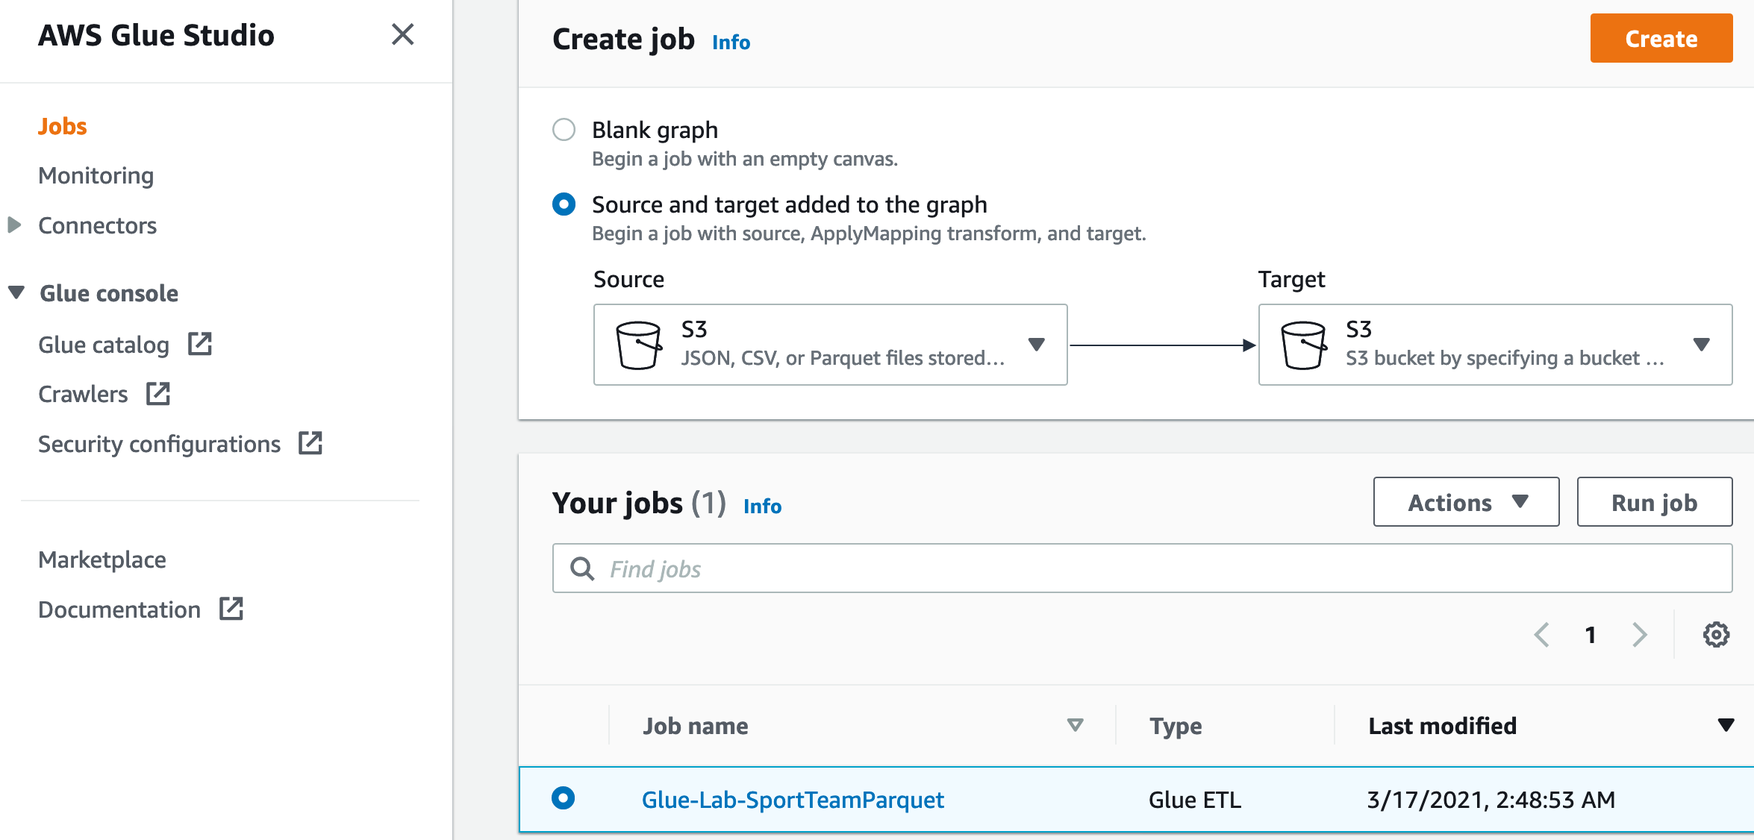
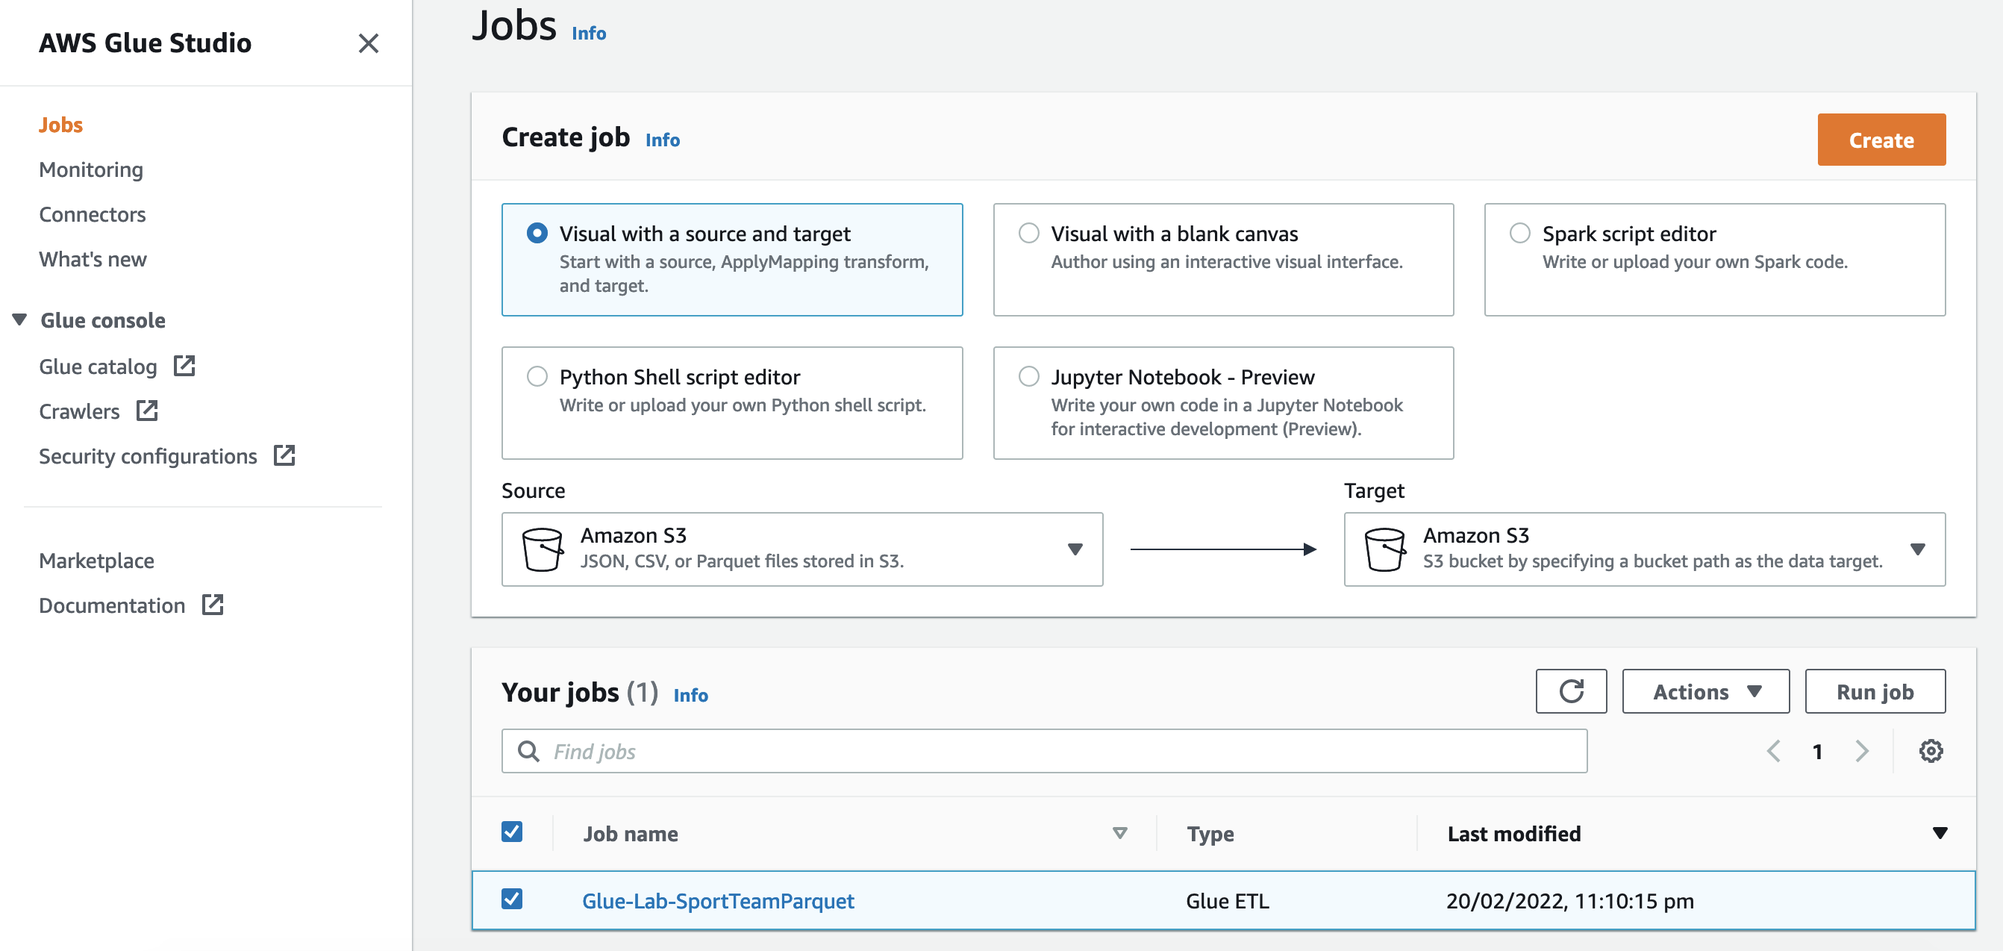
Glue lab updates

diff --git a/content/300/330-streaming-lab.md b/content/300/330-streaming-lab.md
@@ -6,7 +6,7 @@ weight: 330
 ## Streaming ETL Lab
 ![](/static/300/images-streamingETL/1.png)
 
-### Set up Environment:
+### Set up environment
 ::alert[You need to set this environment only if you are running this workshop on your own account. If you are on an AWS event this has already been done for you.]{type="warning"}
 
 Use the [DMS Lab Student PreLab CloudFormation](/400/420-pre-lab-2.html) to setup your core workshop infrastructure environment. Skip the same PreLab in the DMS section.
@@ -17,64 +17,89 @@ Click the **Deploy to AWS** icon below:
 :button[Deploy to AWS]{iconName="external" variant="primary" href="https://console.aws.amazon.com/cloudformation/home#/stacks/create/review?stackName=dmslab-student&templateURL=https://s3.amazonaws.com/aws-dataengineering-day.workshop.aws/DMSlab_student_CFN.yaml" target="_blank"}
 
 ### Set up the kinesis stream 
-1.	Navigate to [AWS Kinesis console](https://console.aws.amazon.com/kinesis/home) 
+1. Navigate to [AWS Kinesis console](https://console.aws.amazon.com/kinesis/home) 
 
-2.	Click “Create data stream” 
+2. Click “Create data stream” 
 ![](/static/300/images-streamingETL/2.png)
  
-3.	Put `TicketTransactionStreamingData` as data stream name and put number of open shards as `2`, then click “Create data stream”.
-![](/static/300/images-streamingETL/3.png)
+3. Enter the following details
 
-Lab Instructions
+- **Data stream name:** `TicketTransactionStreamingData`
+- **Capacity mode:** `Provisioned`
+- **Provisioned shards:** `2`
 
-Create Table for Kinesis Stream Source in Glue Data Catalog
-1.	Navigate to [AWS Glue console](https://console.aws.amazon.com/glue/home)  
-2.	On the AWS Glue menu, select Tables
+  ![](/static/300/images-streamingETL/3.png)
+
+4. Click **Create data stream**
+
+
+### Lab Instructions
+
+#### Create Table for Kinesis Stream Source in Glue Data Catalog
+1. Navigate to [AWS Glue console](https://console.aws.amazon.com/glue/home)  
+2. On the AWS Glue menu, select Tables, then select **Add table manually** from the drop down list.
  ![](/static/300/images-streamingETL/4.png)
-3.	Enter `TicketTransactionStreamData` as the table name
-4.	Click Add database and enter `tickettransactiondatabase` as the database name, and click create. 
- ![](/static/300/images-streamingETL/5.png)
-5.	Using drop down to select the database we just created, and click Next
- ![](/static/300/images-streamingETL/6.png)
-6.	Select **Kinesis** as the source, select Stream in my account for Select a kinesis data stream, select the appropriate AWS region where you have created the stream, select the stream name as `TicketTransactionStreamingData` from the dropdown, and click Next.
- ![](/static/300/images-streamingETL/7.png)
-7.	Choose JSON as the incoming data format, as we will trigger JSON payload from Kinesis Data Generator in following steps. Click Next.
- ![](/static/300/images-streamingETL/8.png)
-8.	Leave the schema as empty, as we will enable schema detection feature when defining glue stream job. Click Next.
- ![](/static/300/images-streamingETL/9.png)
+3. Enter `TicketTransactionStreamData` as the table name
 
-9.	Review all the details and click Finish.
+4. Click Add database and enter `tickettransactiondatabase` as the database name, and click create. 
+ ![](/static/300/images-streamingETL/5.png)
+5. Using drop down to select the database we just created, and click Next
+ ![](/static/300/images-streamingETL/6.png)
+6. Select **Kinesis** as the source, select Stream in my account for Select a kinesis data stream, select the appropriate AWS region where you have created the stream, select the stream name as `TicketTransactionStreamingData` from the dropdown, and click Next.
+ ![](/static/300/images-streamingETL/7.png)
+7. Choose JSON as the incoming data format, as we will trigger JSON payload from Kinesis Data Generator in following steps. Click Next.
+ ![](/static/300/images-streamingETL/8.png)
+8. Leave the schema as empty, as we will enable schema detection feature when defining glue stream job. Click Next.
+ ![](/static/300/images-streamingETL/9.png)
+9. Leave partition indices empty. Click Next.
+ ![](/static/300/images-streamingETL/45.png)
+10. Review all the details and click Finish.
  ![](/static/300/images-streamingETL/10.png)
 
+### Create and trigger Glue Streaming job
 
-### Create and trigger Glue Stream job 
+1. On the left-hand side of Glue Console, click on **Jobs**, this will launch Glue Studio.
+   ![](/static/300/images-streamingETL/46.png)
 
-1.	Navigate to [AWS Glue console](https://console.aws.amazon.com/glue/home) 
-2.	On the AWS Glue menu, select Jobs and then click Add job
- ![](/static/300/images-streamingETL/11.png)
-3.	Enter `TicketTransactionStreamingJob` as the job name, select the IAM role with “GlueLabRole” in the name.
-For job type, use dropdown list, select Spark Streaming; 
- ![](/static/300/images-streamingETL/12.png)
+2. Select the **Visual with a blank canvas** option. Click **Create**
+   ![](/static/300/images-streamingETL/47.png)
 
-leave the rest configurations as-is and click Next.
- ![](/static/300/images-streamingETL/13.png)
-4.	For Data source, select the data source named tickettransactionstreamdata we just created. Click Next.
- ![](/static/300/images-streamingETL/14.png)
-5.	For Data target, select Create tables in your data target, for Data store, using dropdown list and select Amazon S3, for Format, using dropdown list and select Parquet.
- ![](/static/300/images-streamingETL/15.png)
-Click the button next to Target path to select the S3 bucket. From the pop up window, select the S3 bucket with dmslabs3bucket in the name.
- ![](/static/300/images-streamingETL/16.png)
-Make sure you add a path at the end `/TicketTransactionStreamData` 
- ![](/static/300/images-streamingETL/17.png)
-6.	Make sure you select Automatically detect schema of each record, then click Save job and edit script.
- ![](/static/300/images-streamingETL/18.png)
-7.	Review the generated script, click Save and then quit the editor.
- ![](/static/300/images-streamingETL/19.png)
-8.	Select the TicketTransactionStreamingJob we just created, from the Action dropdown list, select Run job.
- ![](/static/300/images-streamingETL/20.png)
+3. Select **Amazon Kinesis** from the Source drop down list.
+   ![](/static/300/images-streamingETL/48.png)
 
-Just leave the optional parameters as default and click Run job to trigger the Glue Stream Job
- ![](/static/300/images-streamingETL/21.png)
+4. In the panel on the right under “Data source properties - Kinesis Stream”, configure as follows:
+
+- **Amazon Kinesis Source:** `Data Catalog table`
+- **Database:** `tickettransactiondatabase`
+- **Table:** `tickettransactionstreamdata`
+- Make sure that **Detect schema** is selected
+- Leave all other fields as default
+
+  ![](/static/300/images-streamingETL/49.png)
+
+5. Select **Amazon S3** from the Target drop down list.
+   ![](/static/300/images-streamingETL/50.png)
+
+6. Select the **Data target - S3 bucket** node at the bottom of the graph, and configure as follows:
+
+   - **Format:** `Parquet`
+   - **Compression Type:** `None`
+   - **S3 Target Location:** Select **Browse S3** and select the “mod-xxx-dmslabs3bucket-xxx” bucket
+   
+   Append `TicketTransactionStreamingData/` to the S3 URL. The path should look similar to s3://mod-xxx-dmslabs3bucket-xxx/<strong>TicketTransactionStreamingData/</strong> - don’t forget the **/** at the end. The job will automatically create the folder.
+    ![](/static/300/images-streamingETL/51.png)
+
+7. Finally, select the **Job details** tab at the top and configure as follows:
+
+   - **Name:** `TicketTransactionStreamingJob`
+   - **IAM Role:** Select the `xxx-GlueLabRole-xxx` from the drop down list
+   - **Type:** `Spark Streaming`
+
+    ![](/static/300/images-streamingETL/52.png)
+
+8. Press the **Save** button in the top right-hand corner to create the job.
+
+9. Once you see the **Successfully created job** message in the banner, click the **Run** button to start the job.
 
 ### Trigger stream data from KDG 
 
@@ -127,8 +152,6 @@ https://awslabs.github.io/amazon-kinesis-data-generator/web/help.html
  ![](/static/300/images-streamingETL/29.png)
 Click the icon next to Include path input to select the S3 bucket. Make sure you select the folder TicketTransactionStreamingData. Click Select.
  ![](/static/300/images-streamingETL/30.png)
-Expand the Exclude patterns, enter `checkpoint/**` to exclude the data in checkpoint folder. Review the current input and click Next.
- ![](/static/300/images-streamingETL/31.png)
 6.	Select No to indicate no other data store needed, then click Next.
  ![](/static/300/images-streamingETL/32.png)
 7.	Choose an existing IAM role, using the dropdown list to select the role with GlueLabRole in the name, click Next.
@@ -151,7 +174,6 @@ Expand the Exclude patterns, enter `checkpoint/**` to exclude the data in checkp
 
 2.	Make sure you select the appropriate region, from the dropdown list, select the TicketTransactionStreamingData as the target Kinesis stream, put Records per second as 1; click Template 2, and prepare to copy abnormal transaction data,
  ![](/static/300/images-streamingETL/40.png)
-
 
 3.	For the record template, type in `AbnormalTransaction` as the payload name, and copy the template payload as below,
 
@@ -180,34 +202,32 @@ Click Send data to simulate abnormal transactions (1 transaction per second all 
 ### Detect Abnormal Transactions using Ad-Hoc query from Athena
 1.	Navigate to [AWS Athena console](https://console.aws.amazon.com/athena/home)
 
-::::expand{header="If it’s the first time you are using Athena in your AWS Account, expand to follow the instructions"}
-Click **Get Started**  
+If it’s the first time you are using Athena in your AWS Account, expand **Get Started using Athena...** below.
 
-![Athena Console](/static/300/images-streamingETL/image73.png)
+::::expand{header="Get Started using Athena"}
+Click **View settings** to set up a query result location in Amazon S3.
 
-Then click **set up a query result location in Amazon S3** at the top
+![](/static/300/images-streamingETL/image91.png)
 
-![set s3 location](/static/300/images-streamingETL/image74.png)
+Then click **Manage**
 
-In the pop-up window in the **Query result location** field, click the **Select** icon. Choose the bucket with the string     **dmslabs3bucket** ( e.g: *dmslab-student-dmslabs3bucket-xg1hdyq60ibs*), then click on **Select** button.
+![](/static/300/images-streamingETL/image92.png)
 
-![Athena settings](/static/300/images-streamingETL/v-image10.png)
+In the pop-up window in the **Location of query result** field, click **Browse**. Choose the bucket with the string  **dmslabs3bucket** (e.g: *mod-3fccddd609114925-dmslabs3bucket-1wrxdypwl36xo*), then click **Save**.
 
-Append `athenaquery/` at the end of the S3 location, don't forgot the **/** at the end. Click on **Save**.
+Append `athenaquery/` at the end of the S3 location, don't forget the **/** at the end. Click on **Save**.
 
-![Athena Bucket Settings](/static/300/images-streamingETL/v-image11.png)
+![](/static/300/images-streamingETL/image93.png)
 ::::
-
-
 
 2.	Make sure you select AwsDataCatalog as Data source and tickettransactiondatabase as the database, refresh to make sure the parquet_tickettransactionstreamingdata is showing in the table list.
 ![](/static/300/images-streamingETL/42.png)
  
-3.	Copy query as below, this is to query last hour the number of transactions by sourceip. You should see there’s large amount of transactions from the same sourceip. (if this is the first time you launch Athena, you might need to go to Athena Settings and set Query result location, please set the path to s3 bucket with "dmslab-student-dmslabs3bucket" in the name and under "athenaquery" folder)
+3.	Copy query as below, this is to query last hour the number of transactions by sourceip. You should see there’s large amount of transactions from the same sourceip.
     :::code{language=sql showLineNumbers=false showCopyAction=true}
     SELECT count(*) as numberOfTransactions, sourceip
     FROM "tickettransactiondatabase"."parquet_tickettransactionstreamingdata" 
-    WHERE ingest_year='2021'
+    WHERE ingest_year='2022'
     AND cast(ingest_year as bigint)=year(now())
     AND cast(ingest_month as bigint)=month(now())
     AND cast(ingest_day as bigint)=day_of_month(now())
@@ -217,11 +237,11 @@ Append `athenaquery/` at the end of the S3 location, don't forgot the **/** at t
     :::
     ![](/static/300/images-streamingETL/43.png)
  
-4.	Copy query as below, this is to further check if the transaction details from the same source IP.  The query verified that the request are coming from same ip but with different customer id, so it’s verified as abnormal transactions.
+4.	Copy query as below, this is to further check if the transaction details from the same source IP. The query verified that the request are coming from same ip but with different customer id, so it’s verified as abnormal transactions.
     :::code{language=sql showLineNumbers=false showCopyAction=true}
     SELECT *
     FROM "tickettransactiondatabase"."parquet_tickettransactionstreamingdata" 
-    WHERE ingest_year='2021'
+    WHERE ingest_year='2022'
     AND cast(ingest_year as bigint)=year(now())
     AND cast(ingest_month as bigint)=month(now())
     AND cast(ingest_day as bigint)=day_of_month(now())

diff --git a/content/600/620-glue-job-bookmark.md b/content/600/620-glue-job-bookmark.md
@@ -68,46 +68,38 @@ capture.
 
 ##### Step 2: Create a Glue Job with Bookmark Enabled
 
-1. On the left-hand side of Glue Console, click on **Jobs** and then Click on **Add Job.**
+1. On the left-hand side of Glue Console, click on **Jobs** and then click on **Create**
    ![](/static/600/media/image56.png)
 
-2. On the Job properties page, make the following selections:
-    - For **Name**, type `Glue-Lab-TicketHistory-Parquet-with-bookmark`  
-    - For **IAM role**, choose existing role “xxx-**GlueLabRole**-xxx”  
-    - For **Type**, Select **Spark**  
-    - For **Glue Version**, select **Spark 2.4, Python 3 (Glue version 2.0)** or whichever is the latest version
-    - For **This job runs**, select **A proposed script generated by AWS Glue**.
-    - For **Script file name**, use the **default**.
-    - For **S3 path where the script is stored**, provide a unique Amazon S3 path to store the scripts. (You can keep the **default** for this lab.)
-    - For **Temporary directory**, provide a unique Amazon S3 directory for a temporary directory. (You can keep the **default** for this lab.)
+2. Create a **Glue-Lab-TicketHistory-Parquet-with-bookmark** job with the following attributes:
 
-3. Expand the **Advanced properties** section. For Job bookmark, select **Enable** from the drop-down option.
-4. Expand on the **Monitoring** options, enable **Job metrics**.
-5. Click **Next**
-   ![](/static/600/media/image57.png)
+| **Task / Action**               | **Attribute**          | **Values**                            |
+|---------------------------------|------------------------|---------------------------------------|
+| “Data source - S3 bucket” node  | Database               | `ticketdata`                            |
+|                                 | Table                  | `cdc_ticket_purchase_hist`                       |
+| “Transform - ApplyMapping” node | Schema transformations | None                                  |
+| “Data target - S3 bucket” node  | Format                 | Parquet                               |
+|                                 | Compression Type       | Uncompressed                          |
+|                                 | S3 target path         | `s3://xxx-dmslabs3bucket-xxx/cdc_bookmark/ticket_purchase_history/data/` |
+| “Job details tab”               | Job Name               | `Glue-Lab-TicketHistory-Parquet-with-bookmark`  |
+|                                 | IAM Role               | xxx-GlueLabRole-xxx                   |
+|                                 | Job bookmark           | Enable                               |
 
-6. In **Choose a data source**, select **cdc_ticket_purchase_hist** as we are generating new data entries for **ticket_purchase_hist** table. Click **Next**
-   ![](/static/600/media/56.png)
+![](/static/600/media/image86.png)
 
-7. In **Choose a transform type**, select **Change Schema** and Click **Next**
+![](/static/600/media/image87.png)
 
-![](/static/600/media/image59.png)
+![](/static/600/media/image88.png)
 
-8. In Choose a data target:
-    - Create tables in your data target
-    - For **Data store**: select **Amazon** **S3**
-    - Format: **parquet**
-    - **Target path**: s3://xxx-dmslabs3bucket-xxx`/cdc_bookmark/ticket_purchase_history/data/`
-    - Click **Next**
-   ![](/static/600/media/image60.png)
+![](/static/600/media/image89.png)
 
-9. In map the source columns to target columns window, leave everything as **default** and Click on **Save job and edit script**.
-   ![](/static/600/media/59.png)
+![](/static/600/media/image90.png)
 
-10. In the next window, review the job script and click on **Run job**, then click on **close** **mark** on the top right of the window to close the screen.
-   ![](/static/600/media/60.png)
+3. Click the **Save** button in the top right-hand corner to create the job.
 
-11. Once the job finishes its run, check the **S3 bucket** for the parquet partitioned data.
+4. Once you see the **Successfully created job** message in the banner, click the **Run** button to start the job.
+
+5. Once the job finishes its run, check the **S3 bucket** for the parquet partitioned data.
    ![](/static/600/media/61.png)
 
 ##### Step 3: Create Glue crawler for Parquet data in S3 
@@ -118,7 +110,7 @@ capture.
 3. In crawler configuration window, provide crawler name as `glue_lab_cdc_bookmark_crawler` and Click **Next**.
    ![](/static/600/media/image65.png)
 4. In **Specify** **crawler source type**, select **Data stores** and **Crawl all folders**. Click **Next**
-   ![](/static/600/media/image66.png)
+   ![](/static/600/media/image11.png)
 5. In **Add a data store**:
     - For **Choose a data store**, select **S3**
     - For the **Include path**, click the folder icon and choose your target S3 bucket, then append `/cdc_bookmark/ticket_purchase_history `, e.g., “s3://xxx-dmslabs3bucket-xxx/cdc_bookmark/ticket_purchase_history”
@@ -140,26 +132,26 @@ capture.
 12. After the crawler finishes running, click on Databases, select **ticketdata** and view tables in this database. You will find the newly created table as **bookmark_parquet_ticket_purchase_history**
    ![](/static/600/media/image72.png)
 
-13. Once the table is created, click on **Action** and from **dropdown** select **View Data.**
+13. Select the checkbox next to the **bookmark_parquet_ticket_purchase_history** table, click on **Action** and from **dropdown** select **View Data**
+
+This will launch the Athena query editor.
 
 If it’s the first time you are using Athena in your AWS Account, expand **Get Started using Athena...** below.
 
 ::::expand{header="Get Started using Athena"}
-Click **Get Started**  
+Click **View settings** to set up a query result location in Amazon S3.
 
-![Athena Console](/static/300/images-streamingETL/image73.png)
+![](/static/600/media/image91.png)
 
-Then click **set up a query result location in Amazon S3** at the top
+Then click **Manage**
 
-![set s3 location](/static/300/images-streamingETL/image74.png)
+![](/static/600/media/image92.png)
 
-In the pop-up window in the **Query result location** field, click the **Select** icon. Choose the bucket with the string     **dmslabs3bucket** ( e.g: *dmslab-student-dmslabs3bucket-xg1hdyq60ibs*), then click on **Select** button.
+In the pop-up window in the **Location of query result** field, click **Browse**. Choose the bucket with the string  **dmslabs3bucket** (e.g: *mod-3fccddd609114925-dmslabs3bucket-1wrxdypwl36xo*), then click **Save**.
 
-![Athena settings](/static/300/images-streamingETL/v-image10.png)
+Append `athenaquery/` at the end of the S3 location, don't forget the **/** at the end. Click on **Save**.
 
-Append `athenaquery/` at the end of the S3 location, don't forgot the **/** at the end. Click on **Save**.
-
-![Athena Bucket Settings](/static/300/images-streamingETL/v-image11.png)
+![](/static/600/media/image93.png)
 ::::
 
 To select some rows from the table, try running:

diff --git a/content/600/610-glue-data-validation-etl.md b/content/600/610-glue-data-validation-etl.md
@@ -144,10 +144,10 @@ Glue will create the new folder automatically, based on your input of the full f
 1. In the left navigation pane, under ETL, click **AWS Glue Studio**.
     ![](/static/600/media/image26.png)
 
-2. Choose “**View Jobs**”
+2. Choose “**View jobs**”
     ![](/static/600/media/image27.png)
 
-3. Leave the “Source and target added to the graph” option selected, and press “**Create**”
+3. Leave the “Visual with a source and target” option selected, and click “**Create**”
     ![](/static/600/media/image28.png)
 
 4. Select the **Data source - S3 bucket** at the top of the graph.
@@ -187,15 +187,11 @@ Glue will create the new folder automatically, based on your input of the full f
 18. Scroll down to the **Job runs** list to verify that the ETL job has completed successfully. This should take about 1 minute to complete.
     ![](/static/600/media/image35.png)
 
-::alert[If the Glue job has failed with an S3 AccessDenied exception such as in the sample screenshot below, check that the job's S3 Target Location is referring to the xxx-dmslabs3bucket-xxx S3 bucket in your AWS lab account. If the S3 Target Location is not showing the correct S3 bucket, update this with the correct S3 bucket, save and re-run the job.]{type="info"}
-
-![](/static/600/media/image85.png)
-
 19. We need to repeat this process for an additional 4 jobs, to transform the **sport_location, sporting_event, sporting_event_ticket** and **person** tables.
 
 During this process, we will need to modify different column data types. We can either repeat the process above for each table, or we can clone the first job and update the details. The steps below describe how to clone the job - if creating manually each time, follow the above steps but make sure you use the updated values from the tables below.
 
-1. Return to the **Jobs** menu, and select the **Glue-Lab-SportsTeamParquet** job by clicking the small circle next to the name.
+1. Return to the **Jobs** menu, and select the **Glue-Lab-SportsTeamParquet** job by clicking the checkbox next to the name.
     ![](/static/600/media/image36.png)
 
 2. Under the **Actions** dropdown, select **Clone job**. Update the job as per the following tables, then **Save** and **Run**.
@@ -279,7 +275,7 @@ Create a **Glue-Lab-PersonParquet** job with the following attributes:
 
 ##### Create Glue Crawler for Parquet Files 
 
-1. In the Glue Studio naviation menu, select **Crawlers** to open the Glue Crawlers page in a new tab. Click **Add crawler**.
+1. In the Glue Studio navigation menu, select **Crawlers** to open the Glue Crawlers page in a new tab. Click **Add crawler**.
     ![](/static/600/media/image37.png)
 
 2. For **Crawler name**, type `glue-lab-parquet-crawler` and Click **Next**.

diff --git a/content/600/630-glue-workflows.md b/content/600/630-glue-workflows.md
@@ -29,7 +29,6 @@ On-demand trigger → glue-lab-cdc-crawler → Glue-Lab-TicketHistory-Parquet-wi
 2.  Give the workflow name as `Workflow_tickethistory`. Provide a description (optional) and click on **Add Workflow** to create it.
 3.  Click on the **workflow** and scroll to the bottom of the page. You will see an option **Add Trigger**. Click on that button.
     ![](/static/600/media/image79.png)
-    ![](/static/600/media/image80.png)
 4.  In **Add Trigger** window, From Clone Existing and Add New options, click on **Add New**.
     - Provide **Name** as `Trigger1`
     - Provide a **description**: `Trigger to start workflow`
